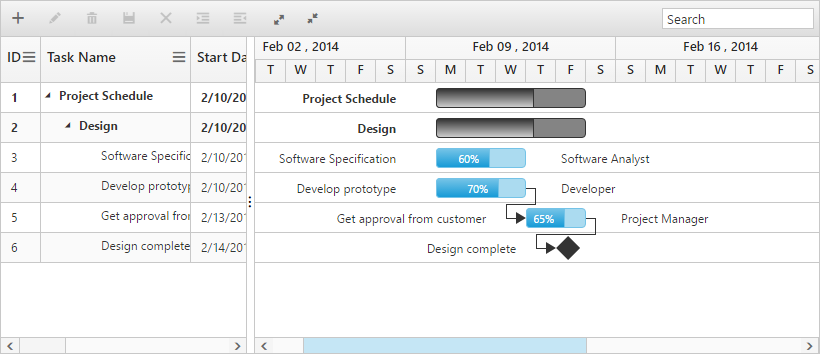
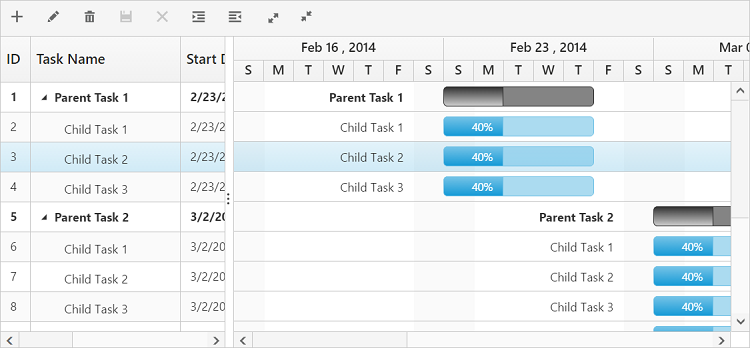
Customtoolbaritem-AngularUG is committed

diff --git a/angular-1/Gantt/Toolbar.md b/angular-1/Gantt/Toolbar.md
@@ -9,46 +9,137 @@ documentation: ug
 
 # Toolbar
 
-Gantt control contains toolbar options for editing, searching, expanding and collapsing all records, indent, out dent, delete and add task. You can enable toolbar using the following code example.
+In Gantt we can show/hide the Toolbar by using [`toolbarSettings.showToolbar`](https://help.syncfusion.com/api/js/ejgantt#members:toolbarsettings-showtoolbar "showToolbar") property.We can add default toolbar items by [`toolbarSettings.toolbarItems`](https://help.syncfusion.com/api/js/ejgantt#members:toolbarsettings-toolbaritems "toolbarItems"). User can also create a custom toolbar items by using [`toolbarSettings.customToolbarItems`](https://help.syncfusion.com/api/js/ejgantt#members:toolbarsettings-customToolbarItems "customToolbarItems").
 
-{% highlight javascript %}
+## Default Toolbar Items
+Using Gantt default toolbar items we can perform below operations.
 
-<body ng-controller="GanttCtrl">
-   <!--Add  Gantt control here-->    
-   <div id="GanttContainer" ej-gantt
-      //...
-      e-toolbarsettings="toolbarSettings" 
-      >
-   </div>
-  <script>
-    var toolbarSettings= {
-               showToolbar: true,
-            toolbarItems: [
-                ej.Gantt.ToolbarItems.Add, //TO ADD THE NEW TASK 
-                ej.Gantt.ToolbarItems.Edit, //TO MODIFY THE SELECTED TASK DETAILS
-                ej.Gantt.ToolbarItems.Delete, //TO DELETE THE SELECTED TASK
-                ej.Gantt.ToolbarItems.Update, //TO SAVE THE MODIFIED TASK DETAILS
-                ej.Gantt.ToolbarItems.Cancel, //TO CANCEL THE MODIFIED TASK DETAILS
-                ej.Gantt.ToolbarItems.Indent, //TO INDENT THE SELECTED TASK 
-                ej.Gantt.ToolbarItems.Outdent, //TO OUTDENT THE SELECTED TASK
-                ej.Gantt.ToolbarItems.ExpandAll, //TO EXPAND ALL THE TASKS IN GANTT
-                ej.Gantt.ToolbarItems.CollapseAll, //TO COLLAPSE ALL THE TASK IN GANTT
-                ej.Gantt.ToolbarItems.Search, //TO FIND THE TASK
-                ej.Gantt.ToolbarItems.PrevTimeSpan, //TO SHIFT THE PROJECT TO PREVIOUS TIME SCALE
-                ej.Gantt.ToolbarItems.NextTimeSpan //TO SHIFT THE PROJECT TO NEXT TIME SCALE
-            ],
-            }
-    angular.module('listCtrl', ['ejangular'])
-        .controller('GanttCtrl', function($scope) {
-            //...
-            $scope.toolbarSettings = "toolbarSettings";
+* **Add**- To add new task.
+
+* **Edit**-To edit a selected task.
+
+* **Delete**- To delete a selected task.
+		   
+* **Cancel**- To cancel the edited changes in a task.
+		   
+* **Update**- To save the edited changes in a task.
+		   
+* **ExpandAll**- To expand all the Gantt rows.
+		   
+* **CollapseAll**- To collapse all the Gantt rows.
+
+* **Indent**- To indent the selected task in Gantt.
+		   
+* **Outdent**- To outdent the selected task in Gantt.
+		   
+* **CriticalPath**- To support critical path in Gantt.
+
+* **PrevTimeSpan**- To navigate the Gantt timeline to previous time span.
+
+* **NextTimeSpan**- To navigate the Gantt timeline to Next time span.
+
+* **Search**- To perform search operation in Gantt.
+		   
+* **ExcelExport**- To export Gantt in Excel format.
+
+* **PdfExport**- To export Gantt in Pdf format.
+
+We can enable Gantt toolbar by using below code example:
+{% highlight js %}
+    <body ng-controller="GanttCtrl">                
+           <div id="angulargantt" ej-gantt e-toolbarsettings="toolbarSettings"></div>            
+    <script>       
+        var toolbarSettings =
+            {
+             showToolbar: true,
+             toolbarItems: [
+                ej.Gantt.ToolbarItems.Add, 
+                ej.Gantt.ToolbarItems.Edit, 
+                ej.Gantt.ToolbarItems.Delete,
+                ej.Gantt.ToolbarItems.Update,
+                ej.Gantt.ToolbarItems.Cancel,
+                ej.Gantt.ToolbarItems.Indent, 
+                ej.Gantt.ToolbarItems.Outdent,
+                ej.Gantt.ToolbarItems.ExpandAll,
+                ej.Gantt.ToolbarItems.CollapseAll,
+                ej.Gantt.ToolbarItems.Search,
+		        ej.Gantt.ToolbarItems.PrevTimeSpan,
+                ej.Gantt.ToolbarItems.NextTimeSpan,
+		        ej.Gantt.ToolbarItems.CriticalPath,
+		        ej.Gantt.ToolbarItems.ExcelExport,
+		        ej.Gantt.ToolbarItems.PdfExport
+            ]
+        }       
+        angular.module('listCtrl', ['ejangular'])
+        .controller('GanttCtrl', function ($scope) {      
+            $scope.toolbarSettings = toolbarSettings;
         });
-</script>
+    </script>   
 </body>
-
 {% endhighlight %}
-
-The following screenshot shows the toolbar option in Gantt control.
+The following screenshot displays the toolbar option in Gantt control.
 
 ![](Toolbar_images/Toolbar_img1.png)
+
+N> To perform add,edit,delete,cancel,update,indent,outdent using Toolbar items we need to enable add/edit/delete/indent using [`editSettings`](https://help.syncfusion.com/api/js/ejGantt#members:editsettings "editSettings").
+  
+## Custom Toolbar Items
+
+CustomToolbarItems allows us to insert custom icons and custom template in Gantt toolbar. By using below properties we can customize Gantt toolbar as per our requirement.
+
+* **text**- To insert the custom icons in toolbar using CSS class name selector.
+
+* **templateID**-To insert the custom icons in toolbar using script templates. Using this property we can bind HTML elements and other EJ controls to Gantt toolbar.
+
+* **tooltipText**-Displays tooltip text for the custom icons. 
+
+To insert EJ Controls in Gantt toolbar we need to initiate the control in [`create`](https://help.syncfusion.com/api/js/ejgantt#events:create "create") client side event.In [`toolbarClick`](https://help.syncfusion.com/api/js/ejgantt#events:toolbarclick "toolbarclick") client side event we can bind actions to the custom toolbar items.
+
+{% highlight html %}
+   <body ng-controller="GanttCtrl">
+    <script id="ColumnVisibility" type="text/ng-template">
+        <input id="dropdownContainer" />
+    </script>                
+           <div id="angulargantt" ej-gantt 
+                     e-toolbarsettings="toolbarSettings"                    
+                     e-create="create"
+                     e-toolbarclick="toolbarClick">
+            </div>            
+    <script>       
+        var toolbarSettings =
+            {
+                showToolbar: true,
+                customToolbarItems: [
+                            { templateID: "#ColumnVisibility", tooltipText: "Column Visibility" },
+                            { text: "Reset", tooltipText: "Reset" }],
+            }       
+        angular.module('listCtrl', ['ejangular'])
+        .controller('GanttCtrl', function ($scope) {           
+            $scope.toolbarClick= function (args) {
+                if (args.itemName == "Reset") {
+                    //we can bind the custom actions here
+                }
+            },
+            $scope.create= function (args) {
+                //Here we can append custom EJ controls
+                $("#dropdownContainer").ejDropDownList({});
+            }            
+            $scope.toolbarSettings = toolbarSettings;
+        });
+    </script>
+    <style type="text/css" class="cssStyles">
+        #angulargantt_ColumnVisibility {
+            padding-top: 2px;
+            padding-bottom: 0px;
+        }
+
+        .Reset:before {
+            content: "\e677";
+        }
+    </style>
+</body>
+{% endhighlight %}
+
+![](Toolbar_images/Toolbar_img2.png)
+	
 

diff --git a/angular-1/TreeGrid/Toolbar.md b/angular-1/TreeGrid/Toolbar.md
@@ -7,33 +7,36 @@ control: TreeGrid
 documentation: ug
 ---
 
-# Toolbar
+In TreeGrid we can show/hide the Toolbar by using [`toolbarSettings.showToolbar`](https://help.syncfusion.com/api/js/ejtreegrid#members:toolbarsettings-showtoolbar "showToolbar") property.We can add default toolbar items by [`toolbarSettings.toolbarItems`](https://help.syncfusion.com/api/js/ejtreegrid#members:toolbarsettings-toolbaritems "toolbarItems"). User can also create a custom toolbar items by using [`toolbarSettings.customToolbarItems`](https://help.syncfusion.com/api/js/ejtreegrid#members:toolbarsettings-customToolbarItems "customToolbarItems").
 
-TreeGrid control contains toolbar options for adding, deleting and editing the records. You can customize the TreeGrid toolbar by using [`e-toolbarsettings`](/api/js/ejtreegrid#toolbarsettingsspan-classtype-signature-type-objectobjectspan "toolbarSettings") property. 
+## Default Toolbar Items
+Using TreeGrid default toolbar items we can perform below operations.
 
-In TreeGrid by using [`rowPosition`](/api/js/ejtreegrid#editsettingsrowpositionspan-classtype-signature-type-stringstringspan "editSettings.rowPosition") property, the index position for the newly added row can be provided. Default value of the `rowPosition` property is `top`. The enumeration values for `rowPosition` properties are,
+* **Add**- To add new task.
 
-* top
-* bottom
-* aboveSelectedRow
-* belowSelectedRow
+* **Edit**-To edit a selected task.
 
-You can enable toolbar for TreeGrid, using the following code example.
+* **Delete**- To delete a selected task.
+		   
+* **Cancel**- To cancel the edited changes in a task.
+		   
+* **Update**- To save the edited changes in a task.
+		   
+* **ExpandAll**- To expand all the TreeGrid rows.
+		   
+* **CollapseAll**- To collapse all the TreeGrid rows.
+		   
+* **PdfExport**- To export TreeGrid in Pdf format.
+		   
+* **ExcelExport**- To export TreeGrid in Excel format.
 
+We can enable TreeGrid toolbar by using below code example:
 {% highlight js %}
-
-<body ng-controller="TreeGridCtrl">
-    <!--Add  treegrid control here-->
-    <div id="TreeGridContainer" ej-treegrid //... 
-    e-editsettings="editSettings" 
-    e-toolbarsettings="toolbarSettings">
-    </div>
-    <script>
-    var  editSettings= {
-        //...
-        rowPosition: "aboveSelectedRow"
-    },
-    var  toolbarSettings= {
+    <body ng-controller="TreeGridCtrl">                
+           <div id="angulartreegrid" ej-treegrid e-toolbarsettings="toolbarSettings"></div>            
+    <script>       
+        var toolbarSettings =
+            {
         showToolbar: true,
         toolbarItems: [
             ej.TreeGrid.ToolbarItems.Add,
@@ -41,22 +44,81 @@ You can enable toolbar for TreeGrid, using the following code example.
             ej.TreeGrid.ToolbarItems.Delete,
             ej.TreeGrid.ToolbarItems.Update,
             ej.TreeGrid.ToolbarItems.Cancel,
-            ej.TreeGrid.ToolbarItems.ExpandAll
-            ej.TreeGrid.ToolbarItems.CollapseAll
+            ej.TreeGrid.ToolbarItems.ExpandAll,
+            ej.TreeGrid.ToolbarItems.CollapseAll,
+	    ej.TreeGrid.ToolbarItems.PdfExport,
+            ej.TreeGrid.ToolbarItems.ExcelExport
         ],
-    }
+            }       
         angular.module('listCtrl', ['ejangular'])
-            .controller('TreeGridCtrl', function($scope) {
-                //...
-                $scope.editSettings = "editSettings";
-                $scope.toolbarSettings = "toolbarSettings";
-            });
-    </script>
+        .controller('TreeGridCtrl', function ($scope) {      
+            $scope.toolbarSettings = toolbarSettings;
+        });
+    </script>   
 </body>
-
 {% endhighlight %}
-
 The following screenshot displays the toolbar option in TreeGrid control.
 
 ![](Toolbar_images/Toolbar_img1.png)
+
+N> To perform add,edit,delete,cancel,update using Toolbar items we need to enable add/edit/delete using editSettings [`editSettings`](https://help.syncfusion.com/api/js/ejtreegrid#members:editsettings "editSettings").
+  
+## Custom Toolbar Items
+
+CustomToolbarItems allows us to insert custom icons and custom template in TreeGrid toolbar. By using below properties we can customize TreeGrid toolbar as per our requirement.
+
+* **text**- To insert the custom icons in toolbar using CSS class name selector.
+
+* **templateID**-To insert the custom icons in toolbar using script templates. Using this property we can bind HTML elements and other EJ controls to TreeGrid toolbar.
+
+* **tooltipText**-Displays tooltip text for the custom icons. 
+
+To insert EJ Controls in TreeGrid toolbar we need to initiate the control in [`create`](https://help.syncfusion.com/api/js/ejtreegrid#events:create "create") client side event.In [`toolbarClick`](https://help.syncfusion.com/api/js/ejtreegrid#events:toolbarclick "toolbarclick") client side event we can bind actions to the custom toolbar items.
+
+{% highlight html %}
+<body ng-controller="TreeGridCtrl">
+    <script id="ColumnVisibility" type="text/ng-template">
+        <input id="dropdownContainer" />
+    </script>                
+           <div id="angulartreegrid" ej-treegrid 
+                     e-toolbarsettings="toolbarSettings"                    
+                     e-create="create"
+                     e-toolbarclick="toolbarClick">
+            </div>            
+    <script>       
+        var toolbarSettings =
+            {
+                showToolbar: true,
+                customToolbarItems: [
+                            { templateID: "#ColumnVisibility", tooltipText: "Column Visibility" },
+                            { text: "Reset", tooltipText: "Reset" }],
+            }       
+        angular.module('listCtrl', ['ejangular'])
+        .controller('TreeGridCtrl', function ($scope) {           
+            $scope.toolbarClick= function (args) {
+                if (args.itemName == "Reset") {
+                    //we can bind the custom actions here
+                }
+            },
+            $scope.create= function (args) {
+                //Here we can append custom EJ controls
+                $("#dropdownContainer").ejDropDownList({});
+            }            
+            $scope.toolbarSettings = toolbarSettings;
+        });
+    </script>
+    <style type="text/css" class="cssStyles">
+        #angulartreegrid_ColumnVisibility {
+            padding-top: 2px;
+            padding-bottom: 0px;
+        }
+
+        .Reset:before {
+            content: "\e677";
+        }
+    </style>
+</body>
+	{% endhighlight %}
+![](Toolbar_images/Toolbar_img2.png)
+
 
